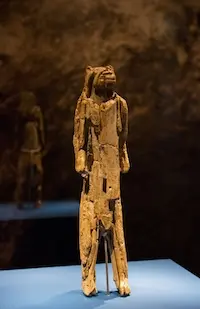
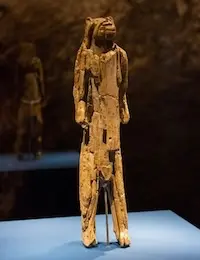
imgzise

diff --git a/index.html b/index.html
@@ -245,7 +245,7 @@
 						<!-- Links -->
 						<section class="widget links">
 							<a href="https://museumulm.de/en/collections/archaeology/"><img
-									src="./images/hombre_leon_museo-ulm.webp" width="80" height="101"
+									src="./images/hombre_leon_museo-ulm.webp" width="80" height="91"
 									alt="Figura de marfil con cabeza de león y cuerpo parcialmente humano de pie, Cueva Stadel, Baden-Württemberg, Alemania, 40.000 años (Museo Ulm)"></a>
 							<ul class="style2">
 								</li>
